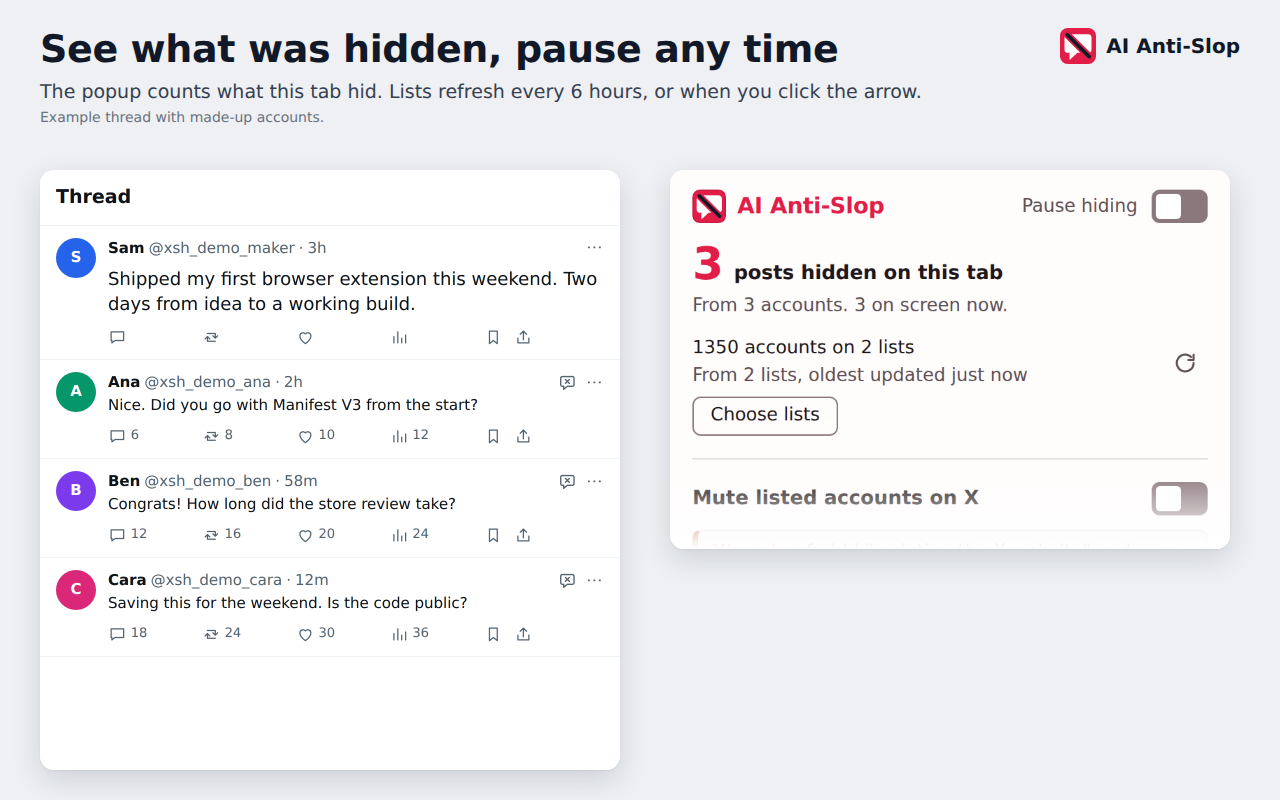
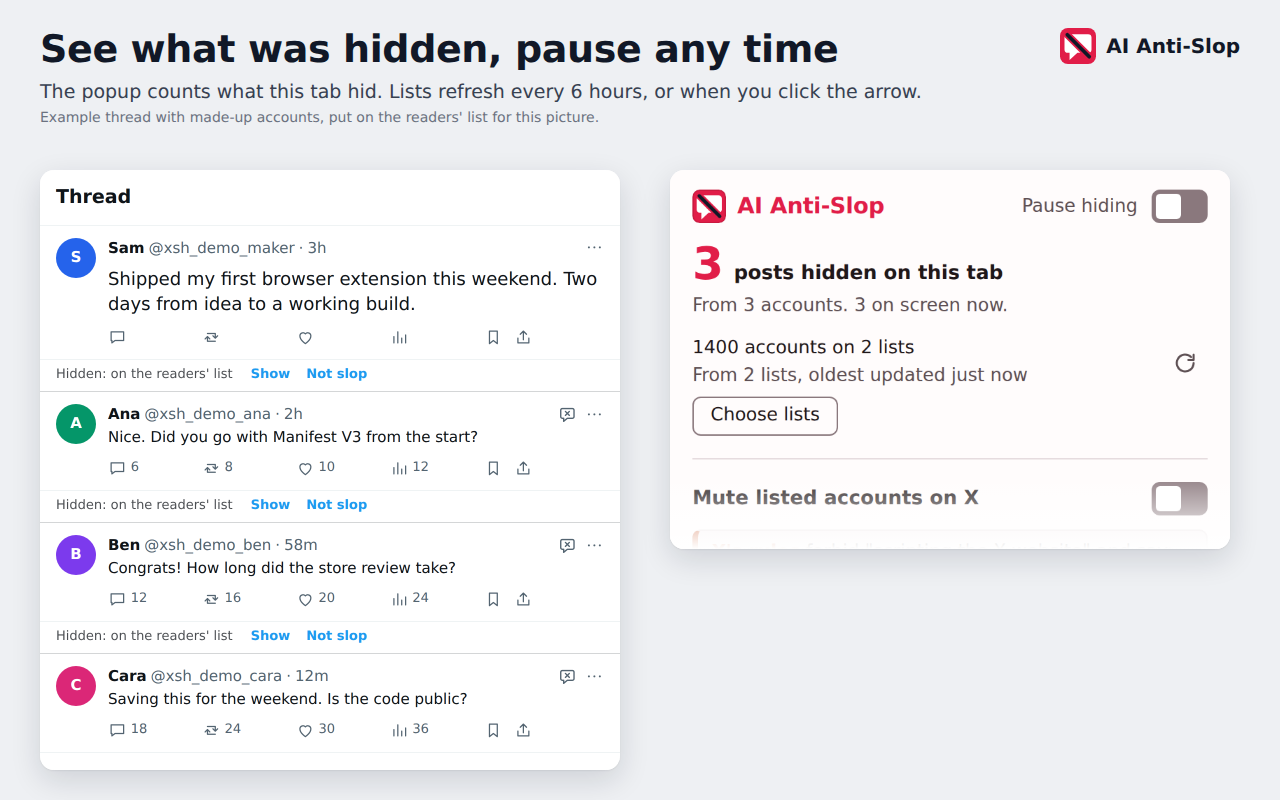
docs(store): show the note in screenshot 1 and check the listing and privacy policy against 0.11.0 (#101)
## What this changes

Gets the store listing and the privacy policy ready for the 0.11.0
submit (#99). The listing's privacy-policy link points at `PRIVACY.md`
on `main`, so the policy fixes need to land before the submit.

- **Screenshots 1 and 2** now show what a store user sees by default
from 0.11.0: a post by a listed account leaves the note "Hidden: on the
readers' list" with Show and Not slop.
- `scripts/store-screenshots.mjs` answers the readers' list's address
from its local server with the example's three made-up spam accounts,
where it used to put them in Also hide (which hides a post completely).
- clankwall's and levelsio's lists are the real ones, and the captions
say the accounts were put on the readers' list for the picture.
- Screenshots 3 and 4 and the tile came out byte-identical, so they
stay.
- **`store/listing.md`**: every checkable claim in the fields pasted
into the dashboard was checked against the 0.11.0 code. What was fixed:
- The `storage` justification still named a hash of the words, and the
Web history row said "the hour". 0.11.0 sends the day.
- A report also carries the label (slop or not slop) and the browser's
random code.
  - The `alarms` row left out the share alarm.
  - The content script also clicks X's Unmute item, not only Mute.
- The sharing card can appear again until it is answered, so "appears
once after your first" was wrong.
- The Report a problem address names the system as well as the browser.
[…]

diff --git a/PRIVACY.md b/PRIVACY.md
@@ -6,8 +6,8 @@ can also mute those accounts on X, and can save labels you give to posts.
 This policy covers the extension and the userscript, version 0.11.0, which
 sends the day a label was made where 0.10.0 sent a hash of the post's words,
 and adds a note on hidden posts with Not slop and a card on x.com that offers
-sharing once. Where an earlier version differs, it says so. Last updated
-2026-11-22.
+sharing after a saved Hide as slop until you answer it. Where an earlier
+version differs, it says so. Last updated 2026-11-23.
 
 ## In short
 
@@ -23,7 +23,9 @@ sharing once. Where an earlier version differs, it says so. Last updated
   file at each of those two hosts and the readers' list from
   `ai-anti-slop.startupbros.com`, and any list you add yourself from the
   address you give. Only while sharing is on, it also sends your labels'
-  reports to `ai-anti-slop.startupbros.com`.
+  reports, and takes them back, at `ai-anti-slop.startupbros.com`;
+  **Delete what I shared** sends one more request there, with your browser's
+  random code, to delete them.
 - Everything it keeps is in your browser profile's extension storage, on your
   computer.
 - If you turn muting on (it is off by default), the extension opens x.com pages
@@ -46,7 +48,8 @@ in the page:
 - with hiding posts that tag a bot turned on, the @-links in each post's own
   text, to see whether it tags a bot set to Hide or Mute;
 - with labels on (they are unless you turn them off), the text of a post
-  when you click **Hide as slop** on it.
+  when you click **Hide as slop** on it, or **Not slop** on the note that
+  stands in for it when it is hidden.
 
 None of this is sent anywhere, except the parts of a label that sharing
 sends while it is on ([Sharing labels](#sharing-labels)). What is kept is
@@ -61,12 +64,12 @@ Sync does not copy it to other devices.
 |---|---|---|
 | `xsh:list` | clankwall's AI flags list: its handles, when it was fetched and last tried, the address it was fetched from, and the last error, if any. | Once that list has been fetched. It is on unless you switch it off. |
 | `xsh:list:<id>` | The same for each other list: the Recommended list (`xsh:list:recommended`, which also keeps the handles from each of its three files apart, under the file's address), clankwall's All flags list (`xsh:list:clankwall-all`), levelsio's list (`xsh:list:levelsio`) and each list you add. | Once that list has been switched on and fetched. The Recommended list is on unless you switch it off. A list you remove has its key removed. |
-| `xsh:settings` | Your settings: paused or not, your **Always show** and **Also hide** accounts, your choice for each bot, whether to hide posts that tag a bot, muting on or off, the daily mute cap, labels on or off, which built-in lists are switched on, the address of each list you add and whether it is on, and an optional address for the AI flags list (no page has a setting for it; it is empty unless set by hand). While muting is on, also the x.com handle muting runs as. | Always; the muting handle only while muting is on. Turning muting off removes it. |
-| `xsh:mutes` | The muting record. For each account muted or tried: the outcome, the time, the handle it was muted as, X's notice text (up to 120 characters), the reason it failed (up to 200 characters), whether a later check found it on your muted list and when that check ran, and the number of attempts; once it is unmuted or tried for that, when it was muted and the number of unmute attempts. The accounts muted since the last check of your muted list. For each UTC day: the number of mutes, unmutes and visits, and why muting stopped, which can name an account and the handle you were logged in as. Up to 50 accounts muting may visit whose posts were hidden on your screen, to be muted first. The time of the next visit. | Only once you turn muting on. |
+| `xsh:settings` | Your settings: paused or not, your **Always show** and **Also hide** accounts, your choice for each bot, whether to hide posts that tag a bot, muting on or off, the daily mute cap, labels on or off, whether listed posts are hidden completely with no note, which built-in lists are switched on, the address of each list you add and whether it is on, and an optional address for the AI flags list (no page has a setting for it; it is empty unless set by hand). While muting is on, also the x.com handle muting runs as. | Always; the muting handle only while muting is on. Turning muting off removes it. |
+| `xsh:mutes` | The muting record. For each account muted or tried: the outcome, the time, the handle it was muted as, X's notice text (up to 120 characters), the reason it failed (up to 200 characters), whether a later check found it on your muted list and when that check ran, and the number of attempts; once it is unmuted or tried for that, when it was muted and the number of unmute attempts. The accounts muted since the last check of your muted list, and, when a check failed, when it may be tried again, as which account and why. For each UTC day: the number of mutes, unmutes and visits, and why muting stopped, which can name an account and the handle you were logged in as. Up to 50 accounts muting may visit whose posts were hidden on your screen, to be muted first. The time of the next visit. | Only once you turn muting on. |
 | `xsh:visit` | While a mute, unmute or check visit runs: the ids of the background tab the extension opened for it and of that tab's window, and the time the visit started. | Removed when the visit ends or is dropped, and at browser start. After an extension update it is used once to close that tab, if the visit is under 90 seconds old and the tab is still in that window and not the tab you are looking at, then removed. |
-| `xsh:label:<post id>` | One saved label: the time, the label, the author's handle, the post's address, up to 1,000 characters of the post's own text, the address of the post page you labelled it on (none when it was another page, such as the home timeline), whether the author was on a list that was switched on (the list's host, and, when a list other than clankwall's AI flags was on, which of those lists held the author), in **Also hide** or in **Always show**, and whether the post was hidden. At most 2,000 labels. | Only when labels are on and you click **Hide as slop** on a post. Labels are on unless you turn them off; nothing is saved until you click. |
+| `xsh:label:<post id>` | One saved label: the time, the label, the author's handle, the post's address, up to 1,000 characters of the post's own text, the address of the post page you labelled it on (none when it was another page, such as the home timeline), whether the author was on a list that was switched on (the list's host, and, when a list other than clankwall's AI flags was on, which of those lists held the author), in **Also hide** or in **Always show**, and whether the post was hidden. At most 2,000 labels. | Only when labels are on and you click **Hide as slop** on a post, or **Not slop** on the note that stands in for a hidden post. Labels are on unless you turn them off; nothing is saved until you click. |
 | `xsh:labelCount` | The number of saved labels. | Same as above. |
-| `xsh:share` | Sharing's record: whether sharing is on, whether you have answered the sharing card (one true or false value), the random code made for this browser when sharing is first turned on, the reports and retractions waiting to be sent (a report is the label, the author's handle, the post's id, the id of the post page it was labelled on and the UTC day it was labelled; a retraction names a post or an account; at most 4,000), for each account a report went for, the side and day the server last confirmed (or that it holds nothing, or that this is not known), how many reports were sent, when a send last went through, the last error, how many sends in a row failed and when sending tries again. | Once you turn sharing on. Turning it off empties what is waiting and keeps the code and the confirmed sides; **Delete what I shared** removes them once the server confirms the delete. |
+| `xsh:share` | Sharing's record: whether sharing is on, whether you have answered the sharing card (one true or false value), the random code made for this browser when sharing is first turned on, the reports and retractions waiting to be sent (a report is the label, the author's handle, the post's id, the id of the post page it was labelled on and the UTC day it was labelled; a retraction names a post or an account; at most 4,000), for each account a report went for, the side and day the server last confirmed (or that it holds nothing, or that this is not known), how many reports were sent, when a send last went through, the last error, how many sends in a row failed and when sending tries again. | Once you turn sharing on or off or answer the sharing card; until sharing is first turned on, it holds only that answer. Turning it off empties what is waiting and keeps the code and the confirmed sides; **Delete what I shared** removes them once the server confirms the delete. |
 
 While a mute visit is running, the extension also keeps, in `chrome.storage.session`,
 the account being visited, the handle muting runs as, and the id of the tab it
@@ -138,8 +141,9 @@ whether one of them is an x.com tab. It uses only each tab's id and whether
 the browser has unloaded it; it does not read tab addresses or titles.
 
 A slop label, made with **Hide as slop**, adds the account to **Also hide**.
-Versions before 0.9.0 also had **Not slop**, which added it to **Always
-show**. With muting on, an account in **Also hide** can be visited
+A not slop label, made with **Not slop** on the note that stands in for a
+hidden post, adds it to **Always show**. Versions before 0.9.0 had **Not
+slop** on every post; 0.9.0 and 0.10.0 had none. With muting on, an account in **Also hide** can be visited
 and muted like a listed one.
 
 **Sharing labels, only if you turn it on.** See
@@ -178,11 +182,13 @@ no remotely hosted code.
 Sharing is in the extension only, from 0.10.0; the userscript
 has no labels. It is off unless you turn it on under **Share your labels** on
 the settings page, which lists what is sent before the button, or by pressing
-**Share** on a card that appears once, after your first saved **Hide as slop**
-click while sharing is off and unanswered. The card lists the same things and
-turns sharing on for labels you make from then on only: it queues none of the
-labels already saved. **Not now** keeps sharing off and the card does not come
-back; turning sharing on or off on the settings page also counts as an answer.
+**Share** on a card that appears after a saved **Hide as slop** click while
+sharing is off and unanswered, at most once each time x.com loads in a tab.
+The card lists the same things and turns sharing on for labels you make from
+then on only: it queues none of the labels already saved. **Not now** keeps
+sharing off and the card does not come back; closing it with Escape is not an
+answer, so it can appear again. Turning sharing on or off on the settings page
+also counts as an answer.
 The card's answer is kept in the sharing record (`xsh:share`) as one true or
 false value, which **Delete what I shared** keeps. The popup says whether
 sharing is on.
@@ -196,7 +202,8 @@ tab and sends nothing.
 **What is sent.** While sharing is on, each label you save is sent as a report
 of five fields:
 
-- the label: `slop`, or `not_slop` for a label saved before 0.9.0;
+- the label: `slop`, or `not_slop` from **Not slop** on a hidden post's note
+  or a label saved before 0.9.0;
 - the author's handle;
 - the post's id, the number at the end of its address;
 - the id of the post whose page you labelled it on, which tells the server
@@ -241,8 +248,8 @@ of this is sent, so what was already sent stays on the server until 90 days
 after your newest label on that account, or until you click **Delete what I
 shared**. A request goes to `https://ai-anti-slop.startupbros.com/v1/reports`
 (`/v1/retract` for a retraction), as plain text with no cookies. If the server
-cannot be reached or answers with an error, the request is tried again 30
-minutes later, then after 1 hour, 2, 4 and at most 6 hours for each failure in
+cannot be reached or answers with an error other than a 400 or 413, which
+drops the request as refused, the request is tried again 30 minutes later, then after 1 hour, 2, 4 and at most 6 hours for each failure in
 a row, each wait made 25% shorter or longer at random so that browsers do not
 all come back together. If the server asks to wait, as it does past a browser's
 100 reports in a UTC day, it is tried again no sooner than the time it gives,
@@ -327,10 +334,12 @@ file you exported stays where you saved it.
 
 ## Selling and sharing
 
-AI Anti-Slop does not sell or transfer user data. Its developers receive only
-the reports sharing sends, which you turn on, and use them only to build the
+AI Anti-Slop does not sell or transfer user data. From the extension, its
+developers receive only what sharing sends, which you turn on: reports, the
+taking back of reports, and the delete. They use the reports only to build the
 readers' list; what is published from them is the list of accounts with their
-counts. The use of information received from the extension's handling of
+counts. A removal request, sent from the readers' list page and never by the
+extension, is used only to take that account off the list. The use of information received from the extension's handling of
 user data complies with the
 [Chrome Web Store User Data Policy](https://developer.chrome.com/docs/webstore/program-policies),
 including the Limited Use requirements.

diff --git a/store/listing.md b/store/listing.md
@@ -16,7 +16,7 @@ the store added an `update_url` to `manifest.json` and a
 What to enter in the Chrome Web Store developer dashboard for AI Anti-Slop 0.11.0,
 field by field. 0.10.0 was submitted on 2026-11-21, in place of 0.9.0, whose
 review (since 2026-11-19) was cancelled; the store still served 0.8.0 that day.
-The store served 0.10.0 by 2026-11-22: its package was the
+On 2026-11-23 (UTC) the store served 0.10.0: its package was the
 store package built from the v0.10.0 tag (69a72aa), 13 of its 14 files byte
 for byte, `manifest.json` the same once the store's `update_url` line is
 removed, and the store's `_metadata/verified_contents.json` added. 0.11.0 has
@@ -75,7 +75,7 @@ LABELS
 - A Hide as slop icon sits in the header of each post, beside X's More menu, on the home timeline, search, profiles, lists and post pages. Posts by the account whose page is open have none, nor do your own once X shows who is logged in. The icon is on by default; turn it off in the popup under Label posts.
 - A click hides the post and adds the account to Also hide, with 6 seconds to undo. An undone click is never saved. A click on a filled icon removes the label.
 - A saved label keeps the post's text and link in this browser. Export labels saves them to a file.
-- Sharing is off until you turn it on in settings, or press Share on the card that appears once after your first saved Hide as slop. The card turns it on for labels you make from then on only. While it is on, each label is sent to AI Anti-Slop's server as the author's handle, the post's id, the id of the post page it was on and the day it was made, never the words. Labels that agree across several readers put an account on the readers' list. Delete what I shared deletes them from the server.
+- Sharing is off until you turn it on in settings, or press Share on the card that can appear after a saved Hide as slop, until you answer it. The card turns it on for labels you make from then on only. While it is on, each label is sent to AI Anti-Slop's server as slop or not slop, the author's handle, the post's id, the id of the post page it was on and the day it was made, with a random code made in this browser, never the words. Labels that agree across several readers put an account on the readers' list. Delete what I shared deletes them from the server.
 
 SETTINGS FILES
 - Export your Always show and Also hide accounts, bot choices and tag setting to a file, or Also hide alone as a list of handles to share.
@@ -87,7 +87,7 @@ MUTING (optional, off until you turn it on)
 - X's rules forbid "scripting the X website" and say: "The use of these techniques may result in the permanent suspension of your account." Muting scripts x.com. Read the Muting section on the project page before you turn it on.
 
 PRIVACY
-- No account, no analytics. The extension's own code downloads the lists you have switched on, clankwall's, levelsio's, the readers' list and any you add, without cookies. Only if you turn on sharing does it send anything else: your labels' reports, without the post's words, to AI Anti-Slop's server. Everything else it keeps stays in your browser's extension storage. Report a problem, in the popup and settings, opens GitHub with the extension's version and your browser's name in the address, and only when you click it.
+- No account, no analytics. The extension's own code downloads the lists you have switched on, clankwall's, levelsio's, the readers' list and any you add, without cookies. Only if you turn on sharing does it send anything else: your labels' reports and any you take back, with a random code made in this browser and without the post's words, to AI Anti-Slop's server. Everything else it keeps stays in your browser's extension storage. Report a problem, in the popup and settings, opens GitHub with the extension's version and your browser's name and system in the address, and only when you click it.
 - Privacy policy: https://github.com/StartupBros-com/ai-anti-slop/blob/main/PRIVACY.md
 
 Free and open source under the MIT license: https://github.com/StartupBros-com/ai-anti-slop
@@ -121,9 +121,11 @@ The screenshots and tile are 24-bit PNGs with no alpha channel. The marquee
 tile (1400x560) is optional and not made.
 
 The screenshots show the real extension on a local example page, not on x.com:
-the threads use made-up `xsh_demo_` accounts, three of them put in **Also
-hide** to stand in for listed spam, and the list counts are the live
-clankwall list at render time. Regenerate them, and the tile, with:
+the threads use made-up `xsh_demo_` accounts, and the list counts are
+clankwall's and levelsio's live lists at render time. The readers' list is
+answered locally with three of the made-up accounts, so in screenshots 1 and 2
+their posts leave the note a listed post leaves; the captions say they were put
+on the readers' list for the picture. Regenerate them, and the tile, with:
 
 ```
 pnpm install
@@ -151,14 +153,15 @@ Hide posts on x.com by accounts on public lists of AI-reply spam accounts, among
 **Permission justifications:** the dashboard takes all host access, the
 clankwall host and the x.com content scripts, in a single **Host permission
 justification** field, which holds the last two rows of this table joined
-(985 of the field's 1,000 characters: the host row below is 4 characters shorter than the one measured at 989).
+(938 of the field's 1,000 characters with the two joined by a line break,
+counted on 2026-11-23).
 
 | Permission | Justification |
 |---|---|
-| `storage` | Keeps the downloaded lists and the user's settings and account lists. Keeps a label (the post's text and link, with the author's handle and the time) only from a Hide as slop click the user does not undo; the click is saved when its 6-second Undo window ends, or sooner if the user clicks another post's icon, opens another page, or switches away from or closes the tab. The icon is on by default, but nothing is saved without a click. Keeps the muting record only if the user turns muting on, and sharing's queue only if the user turns sharing on. All of it stays in the browser's extension storage; while sharing is on, a label's report (handle, post id, page post id, hash of the words) is also sent to AI Anti-Slop's server. |
-| `alarms` | Refreshes the lists every 6 hours. When muting is on, a once-a-minute alarm checks whether a mute visit is due, and a 90-second alarm closes a visit tab that stalls. |
+| `storage` | Keeps the downloaded lists and the user's settings and account lists. Keeps a label (the post's text and link, with the author's handle and the time) only from a Hide as slop click the user does not undo; the click is saved when its 6-second Undo window ends, or sooner if the user clicks another post's icon, opens another page, or switches away from or closes the tab. The icon is on by default, but nothing is saved without a click. Keeps the muting record only if the user turns muting on, and sharing's queue only if the user turns sharing on. All of it stays in the browser's extension storage; while sharing is on, a label's report (slop or not slop, handle, post id, page post id and the day it was made) is also sent to AI Anti-Slop's server, with a random code made in the browser. |
+| `alarms` | Refreshes the lists every 6 hours. When muting is on, a once-a-minute alarm checks whether a mute visit is due, and a 90-second alarm closes a visit tab that stalls. When sharing is on, an alarm sends saved reports at least 30 seconds after a label, and again after a failure. |
 | Host permission `https://clankwall.vogel.dev/*` | The service worker downloads clankwall's public lists from `https://clankwall.vogel.dev/api/`, without cookies. No other data is sent there. |
-| Content scripts on `x.com`, `twitter.com`, `mobile.x.com`, `mobile.twitter.com` | The content script reads each post's author handle to hide posts by listed accounts. X serves the same pages on all four hosts. It reads the user's own handle from X's navigation bar, so a post by the user is never hidden for tagging a bot and muting runs only as the account that turned it on. With labels on (the default), it adds a Hide as slop icon to each post's header, except on posts by the account whose page is open and, once X shows who is logged in, the user's own, and reads a post's text only when the user clicks it. With muting on, it clicks X's own Mute item only in a background tab the extension opened for one account, and reads the user's muted-accounts page in another tab the extension opened, to confirm earlier mutes. |
+| Content scripts on `x.com`, `twitter.com`, `mobile.x.com`, `mobile.twitter.com` | The content script reads each post's author handle to hide posts by listed accounts. X serves the same pages on all four hosts. It reads the user's own handle from X's navigation bar, so a post by the user is never hidden for tagging a bot and muting runs only as the account that turned it on. With labels on (the default), it adds a Hide as slop icon to each post's header, except on posts by the account whose page is open and, once X shows who is logged in, the user's own, and reads a post's text only when the user clicks it. With muting on, it clicks X's own Mute item, or Unmute for an account it muted that left the list, only in a background tab the extension opened for one account, and reads the user's muted-accounts page in another tab the extension opened, to confirm earlier mutes. |
 
 **Remote code:** the dashboard asked no remote-code question when 0.7.1 was
 submitted, so nothing was entered. If it asks, the answer is No: all
@@ -180,7 +183,7 @@ for each row. The stored fields are named by their keys in `PRIVACY.md`.
 |---|---|---|
 | Personally identifiable information | Yes | X handles: the user's own handle, in `xsh:settings` while muting is on and in the muting record (`xsh:mutes`) on each mute it made, which stays after muting is turned off; and other people's handles in the user's lists, the muting record and labels (`xsh:label:<post id>`). |
 | Website content | Yes | A label keeps up to 1,000 characters of the labelled post's text. A label is saved only from a Hide as slop click the user does not undo. With sharing on, the text is not sent. |
-| Web history (the FAQ's "web browsing activity": the sites and URLs a user visits) | Yes | Each label keeps the address of the post and of the page it was labelled on, with the time. With sharing on, the two post ids are sent, with the hour, which says which post page the user was reading. |
+| Web history (the FAQ's "web browsing activity": the sites and URLs a user visits) | Yes | Each label keeps the address of the post and of the page it was labelled on, with the time. With sharing on, the two post ids are sent, with the day, which says which post page the user was reading. |
 | User activity | No | Nothing records keystrokes or mouse movement. With muting on, the muting record keeps up to 50 accounts (listed, in Also hide, or a bot set to Mute on X) whose posts were hidden on the user's screen, so they are muted first. Labels record the user's own Hide as slop clicks, covered under Website content and Web history. This is the extension's own function, not monitoring; if the dashboard's wording for this box reads as covering it, tick it. |
 | Authentication information | No | The extension never reads passwords, cookies or tokens. Mute visits use the browser's own x.com login, as any page load does. |
 | Personal communications | No | Public posts only; no messages or email. |
@@ -189,8 +192,9 @@ for each row. The stored fields are named by their keys in `PRIVACY.md`.
 The boxes would be ticked even with nothing leaving the browser, because
 Google's User Data FAQ asks "Does an extension need to disclose user data
 handling if the data is only processed or stored locally on a user's device?"
-and answers "Yes". With sharing on, the handle, the two post ids and the day
-leave it, for AI Anti-Slop's server, which Cloudflare hosts.
+and answers "Yes". With sharing on, the label, the handle, the two post ids, the day and the
+browser's random code leave it, for AI Anti-Slop's server, which Cloudflare
+hosts.
 
 **Certifications:** tick every one. The docs show their wording only in a
 screenshot; they certify compliance with the Limited Use policy. All of it

diff --git a/docs/TESTING.md b/docs/TESTING.md
@@ -772,7 +772,7 @@ The same day, on the same code, the run under
 
 ## Updating to 0.11.0, in Chromium
 
-On 2026-11-22 the 0.11.0 release branch (b7952ab) was loaded over an older
+On 2026-11-22 (2026-11-23 UTC) the 0.11.0 release branch (b7952ab) was loaded over an older
 version in headless Chromium 157 through playwright-core 1.65.1, each time in a
 fresh profile, by the same steps as the update from 0.8.0 above: the old
 version's files, state given through its own worker code, the browser closed,
@@ -816,6 +816,17 @@ to the committed one except the popup shot, which differs only in the list
 count (1,397 accounts where the committed image has 1,350), so the committed
 images stay.
 
+On 2026-11-23 (UTC), for the 0.11.0 submit, screenshots 1 and 2 were made
+again to show the note. The script no longer puts the example's three spam
+accounts in Also hide, which hides a post completely: its local server answers
+the readers' list's address (`https://ai-anti-slop.startupbros.com/v1/list.ndjson`)
+with those three accounts, so each of their posts leaves the note "Hidden: on
+the readers' list" with Show and Not slop, and the captions say they were put
+on the readers' list for the picture. clankwall's and levelsio's files were
+the real ones (785 and 613 accounts), and the popup read "1400 accounts on 2
+lists". Screenshots 3 and 4 and the tile came out byte-identical to the
+committed ones; the labels shot is taken with hiding paused.
+
 ## The hidden-post note and the sharing card in Chromium
 
 On 2026-11-22 (2026-11-23 UTC) the unpacked extension from the tree committed
@@ -846,7 +857,7 @@ by 900 pixels and at 360 by 640, with the same results.
 
 ## The hidden-post note and the sharing card on x.com
 
-On 2026-11-22 `src/lib.js` and `src/content.js` from c28d086 were injected
+On 2026-11-22 (2026-11-23 UTC) `src/lib.js` and `src/content.js` from c28d086 were injected
 through the DevTools protocol into a tab of Chrome 158.0.8127.42 on Windows,
 logged in to X, in X's dark theme. A stand-in for the extension's worker put a
 few accounts picked from the page on a list, and recorded saves and card
